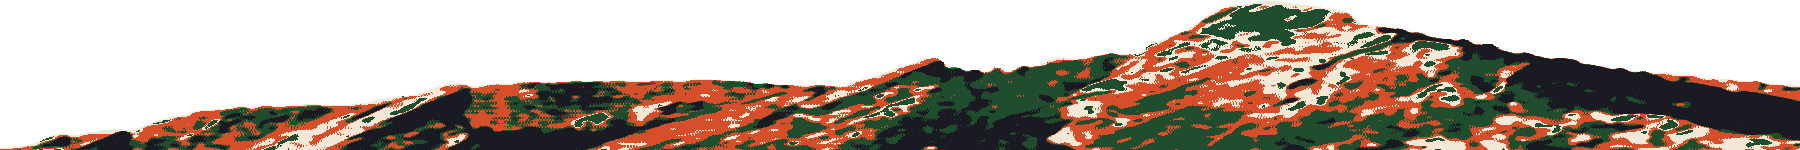
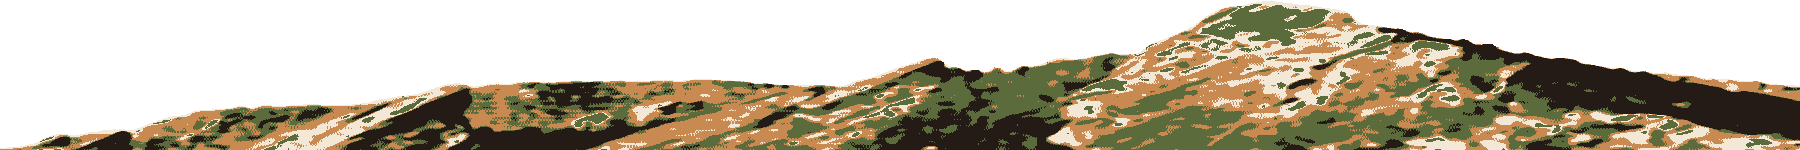
alt: sandstone ridge palette + muted sky keyframes
Conner picked sandstone + muted sky off the comparison sheet.

The ridge asset is exactly four flat plate colours, so the swap is an exact
colour remap of the shipped PNG rather than a re-run of the photo pipeline:
  shadow  #1a1a22 -> #241a16   warm bark instead of neutral black
  trees   #1f4d2e -> #5c6b3c   dry olive instead of deep forest
  rock    #d64f2a -> #c98a52   clay/sandstone instead of orange-red
  cream   unchanged

The sky keyframes are muted to match — each colour pulled ~34% toward its own
luminance then lifted 12% toward white (half strength on dusk/night so the deep
end doesn't go grey and the stars keep their contrast). The cobalt was the
loudest thing on the page and was fighting the rock; both layers are now the
same print family.

diff --git a/src/components/SkyBand.tsx b/src/components/SkyBand.tsx
@@ -20,14 +20,14 @@ const HOME = { lat: 32.7157, lon: -117.1611, label: 'san diego' };
 /* Palette keyframes, ordered top-of-sky → horizon. Interpolated by hour. */
 type Palette = [number, number, number][];
 const KEYS: { h: number; p: Palette }[] = [
-  { h: 0.0, p: [[8, 10, 30], [17, 24, 64], [34, 46, 102], [242, 232, 213]] },      // night
-  { h: 5.2, p: [[24, 26, 78], [80, 62, 128], [214, 118, 110], [255, 214, 168]] },  // dawn
-  { h: 7.4, p: [[28, 75, 184], [122, 143, 214], [244, 162, 89], [255, 227, 174]] },// morning
-  { h: 12.0, p: [[29, 63, 214], [53, 92, 232], [143, 181, 245], [242, 232, 213]] },// midday
-  { h: 18.2, p: [[30, 70, 190], [109, 132, 216], [240, 150, 90], [255, 227, 174]] },// golden
-  { h: 20.0, p: [[43, 30, 92], [196, 61, 99], [240, 124, 63], [247, 208, 135]] },  // dusk
-  { h: 21.6, p: [[8, 10, 30], [17, 24, 64], [34, 46, 102], [242, 232, 213]] },     // night
-  { h: 24.0, p: [[8, 10, 30], [17, 24, 64], [34, 46, 102], [242, 232, 213]] },
+  { h: 0.0, p: [[12, 14, 32], [24, 31, 66], [48, 58, 103], [242, 232, 213]] },     // night
+  { h: 5.2, p: [[54, 55, 85], [99, 89, 127], [199, 143, 138], [255, 214, 168]] },  // dawn
+  { h: 7.4, p: [[69, 96, 159], [145, 157, 198], [226, 178, 136], [255, 227, 174]] },// morning
+  { h: 12.0, p: [[68, 88, 176], [90, 113, 194], [167, 189, 226], [242, 232, 213]] },// midday
+  { h: 18.2, p: [[69, 93, 162], [134, 148, 196], [221, 169, 134], [255, 227, 174]] },// golden
+  { h: 20.0, p: [[53, 43, 92], [184, 78, 108], [226, 135, 87], [247, 208, 135]] }, // dusk
+  { h: 21.6, p: [[12, 14, 32], [24, 31, 66], [48, 58, 103], [242, 232, 213]] },    // night
+  { h: 24.0, p: [[12, 14, 32], [24, 31, 66], [48, 58, 103], [242, 232, 213]] },
 ];
 
 function paletteAt(hour: number): Palette {
